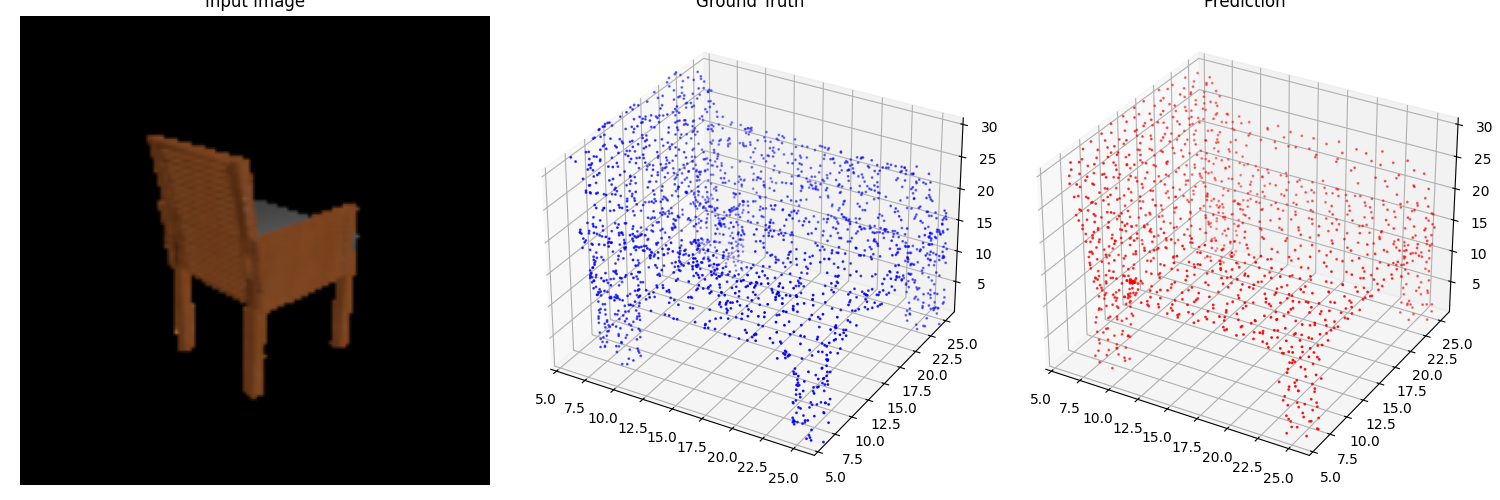
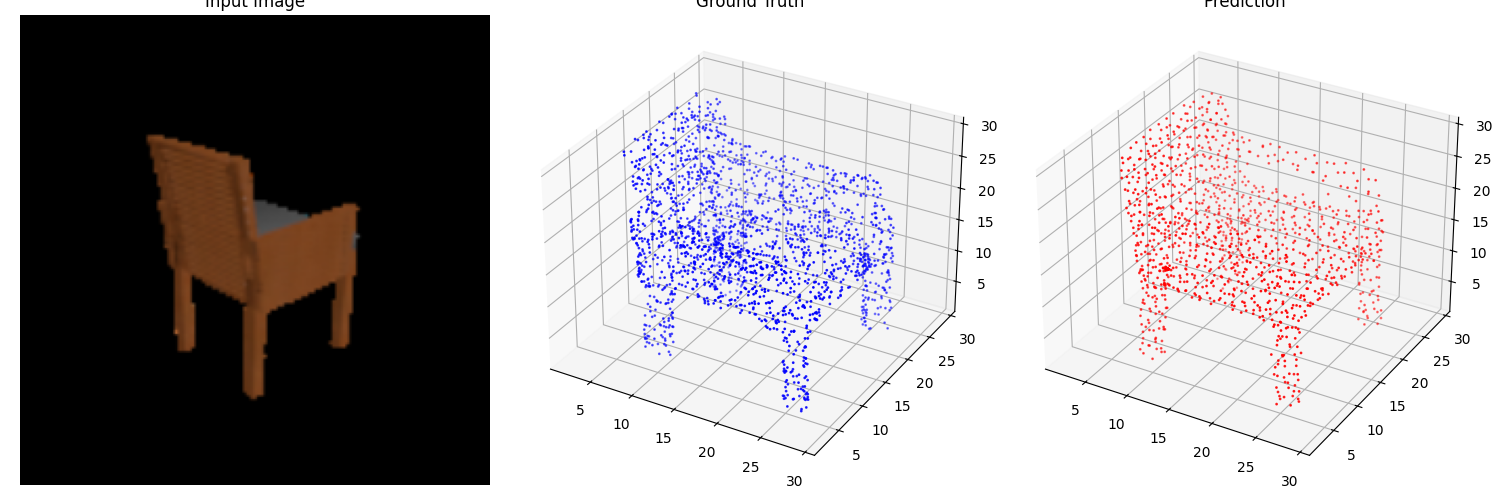
Mesh model ready for tacc

diff --git a/img2mesh/models.py b/img2mesh/models.py
@@ -148,7 +148,7 @@ def train_mesh_epoch(model, train_loader, test_loader, optimizer, device = "cpu"
         smooth_loss = laplacian_smoothness(pred_verts, model.adj_list)
 
         # Total loss
-        loss = chamfer_loss_val + 0.1 * smooth_loss
+        loss = chamfer_loss_val + 0.2 * smooth_loss
         loss.backward()
         optimizer.step()
 
@@ -178,10 +178,10 @@ def train_mesh_epoch(model, train_loader, test_loader, optimizer, device = "cpu"
             chamfer_loss = chamfer_fn(pred_points, gt_points)
 
             # ---- Smoothness Loss ----
-            smooth_loss = laplacian_smoothness(pred_verts, model.adj_list)
+            smooth_loss = laplacian_smoothness(pred_verts, model.adj_list) + edge_length_regularizer(pred_verts, faces)
 
             # Total loss
-            loss = chamfer_loss + 0.1 * smooth_loss
+            loss = chamfer_loss + 0.2 * smooth_loss
 
             val_loss += loss.item()
             break
@@ -220,30 +220,31 @@ def build_adjacency_matrix(faces, num_vertices):
 # 2. SAMPLE POINTS ON PREDICTED MESH (differentiable)
 # -----------------------------------------------------
 def sample_points_on_mesh(pred_verts, faces, num_samples):
-    B, V, _ = pred_verts.shape
-    device = pred_verts.device
-    
-    v0 = pred_verts[:, faces[:, 0], :]   # [B,F,3]
-    v1 = pred_verts[:, faces[:, 1], :]
-    v2 = pred_verts[:, faces[:, 2], :]
-    # Areas for weighted sampling
-    tri_areas = 0.5 * torch.norm(torch.cross(v1 - v0, v2 - v0, dim=2), dim=2)  # [B,F]
-    tri_probs = tri_areas / (tri_areas.sum(dim=1, keepdim=True) + 1e-9)
+        B, V, _ = pred_verts.shape
+        device = pred_verts.device
 
-    # Sample triangles (not differentiable, but vertex ops ARE)
-    idx = torch.multinomial(tri_probs, num_samples, replacement=True)  # [B,Ng]
+        v0 = pred_verts[:, faces[:, 0], :]   # [B,F,3]
+        v1 = pred_verts[:, faces[:, 1], :]
+        v2 = pred_verts[:, faces[:, 2], :]
+        # Areas for weighted sampling
+        tri_areas = 0.5 * torch.norm(torch.cross(v1 - v0, v2 - v0, dim=2), dim=2)  # [B,F]
+        tri_probs = tri_areas / (tri_areas.sum(dim=1, keepdim=True) + 1e-9)
 
-    # Gather triangle vertices
-    v0_s = v0.gather(1, idx.unsqueeze(-1).repeat(1,1,3))  # [B,Ng,3]
-    v1_s = v1.gather(1, idx.unsqueeze(-1).repeat(1,1,3))
-    v2_s = v2.gather(1, idx.unsqueeze(-1).repeat(1,1,3))
+        # Sample triangles (not differentiable, but vertex ops ARE)
+        with torch.no_grad():
+            idx = torch.multinomial(tri_probs, num_samples, replacement=True)  # [B,Ng]
 
-    # Barycentric sampling (differentiable)
-    u = torch.sqrt(torch.rand(B, num_samples, 1, device=device))
-    v = torch.rand(B, num_samples, 1, device=device)
+        # Gather triangle vertices
+        v0_s = v0.gather(1, idx.unsqueeze(-1).repeat(1,1,3))  # [B,Ng,3]
+        v1_s = v1.gather(1, idx.unsqueeze(-1).repeat(1,1,3))
+        v2_s = v2.gather(1, idx.unsqueeze(-1).repeat(1,1,3))
 
-    pts = (1 - u) * v0_s + u * (1 - v) * v1_s + u * v * v2_s
-    return pts  # [B,Ng,3]
+        # Barycentric sampling (differentiable)
+        u = torch.sqrt(torch.rand(B, num_samples, 1, device=device))
+        v = torch.rand(B, num_samples, 1, device=device)
+
+        pts = (1 - u) * v0_s + u * (1 - v) * v1_s + u * v * v2_s
+        return pts  # [B,Ng,3]
 
 
 # -----------------------------------------------------

diff --git a/img2mesh/dataset.py b/img2mesh/dataset.py
@@ -109,7 +109,7 @@ def read_binvox(path):
         return voxels.astype(np.float32)  # 0/1 float values
 
 class Image2MeshDataset(Dataset):
-    def __init__(self, root_dir, split_json, mode="train", transform=None):
+    def __init__(self, root_dir, split_json, mesh_list, mode="train", transform=None, ):
         """
         root_dir: path to the R2N2 dataset folder
         split_json: path to split.json
@@ -162,7 +162,7 @@ class Image2MeshDataset(Dataset):
                 point_cloud = sample_points_from_mesh(verts, faces, num_points=2048)
                 # ------------------------------------------------
                 # Load all views (all 10 views)
-                # ------------------------------------------------
+                # ----------------------- -------------------------
                 render_dir = os.path.join(model_img, "rendering")
                 render_imgs = sorted(glob.glob(os.path.join(render_dir, "*.png")))
 
@@ -176,10 +176,13 @@ class Image2MeshDataset(Dataset):
 
                     self.images.append(img_tensor)
                     self.points.append(point_cloud)
-                    self.faces.append(torch.from_numpy(faces.copy()))
-                    self.verts.append(torch.from_numpy(verts.copy()))
+                    mesh_list.append({
+                        "verts": torch.from_numpy(verts.copy()),
+                        "faces": torch.from_numpy(faces.copy())
+                    })
 
         print(f"[Dataset Loaded] {mode}: {len(self.images)} image-mesh pairs loaded.")
+ 
 
     # ----------------------
     # Image loader
@@ -206,9 +209,7 @@ class Image2MeshDataset(Dataset):
     def __getitem__(self, idx):
         return {
             "images": self.images[idx],
-            "points": self.points[idx],
-            "verts": self.verts[idx],
-            "faces": self.faces[idx],
+            "points": self.points[idx]
         }
     
 
@@ -221,11 +222,12 @@ def load_data(split_path = "./dataset/r2n2_shapenet_dataset/split_03001627.json"
         T.CenterCrop(224),
         T.ToTensor()
     ])
-
-    train_dataset = Image2MeshDataset(r2n2path, split_path, mode = "train", transform=transform)
-    test_dataset = Image2MeshDataset(r2n2path, split_path, mode = "test", transform=transform)
+    train_meshes = []
+    test_meshes = []
+    train_dataset = Image2MeshDataset(r2n2path, split_path, train_meshes, mode = "train", transform=transform)
+    test_dataset = Image2MeshDataset(r2n2path, split_path, test_meshes, mode = "test", transform=transform)
     print(f"Train samples: {len(train_dataset)}, Test samples: {len(test_dataset)}")
     print("Example data point keys:", train_dataset[0].keys())
-    return train_dataset, test_dataset
+    return train_dataset, test_dataset, train_meshes, test_meshes
 if __name__ == "__main__":
     load_data()

diff --git a/img2mesh/train.py b/img2mesh/train.py
@@ -21,10 +21,10 @@ def train_mesh_model(model, train_loader, val_loader, optimizer, num_epochs=20, 
             torch.save(model.state_dict(), save_path + f"epoch{epoch}.pth")
     return loss_dict
 
-def visualize_image2mesh_results(model_path, dataset, template_mesh, index=0, device="cpu", save_path=None):
+def visualize_image2mesh_results(model_path, dataset, meshes, template_mesh, index=0, device="cpu", save_path=None):
     image_tensor = dataset[index]["images"].to(device)  # [1, 3, H, W]
-    gt_verts = dataset[index]["verts"].to(device)            # [V, 3]
-    gt_faces = dataset[index]["faces"].to(device)            # [F,
+    gt_verts = meshes[index]["verts"].to(device)            # [V, 3]
+    gt_faces = meshes[index]["faces"].to(device)            # [F,
     img = image_tensor.permute(1,2,0).cpu().numpy()
     with torch.no_grad():
         model = Img2MeshModel(template_verts_numpy=template_mesh["verts"], template_faces_numpy=template_mesh["faces"], adj_list=build_adjacency_matrix(template_mesh["faces"], template_mesh["verts"].shape[0]))
@@ -97,7 +97,7 @@ def main():
     model = Img2MeshModel(template_verts_numpy=tpl["verts"], template_faces_numpy=tpl["faces"], adj_list=adj_list)
     optimizer = torch.optim.Adam(model.parameters(), lr=0.001)
     save_path = "./img2mesh/saved_models/"
-    trainset, testset = load_data()
+    trainset, testset, train_meshes, test_meshes = load_data()
     train_loader = DataLoader(trainset, batch_size=32, shuffle=True)
     test_loader = DataLoader(testset, batch_size=32, shuffle=False)
     device = torch.device("cpu") if not torch.cuda.is_available() else torch.device("cuda")
@@ -108,11 +108,11 @@ def main():
     with open("./img2mesh/losses.json", "w") as f:
         json.dump(loss_dict, f, indent=4)
     
-    # visualized_idx = [0, 52, 112, 162, 200]
-    visualized_idx = [0, 1, 2, 3, 4]
+    visualized_idx = [0, 52, 112, 162, 200]
+    # visualized_idx = [0, 1, 2, 3, 4]
 
     for idx in visualized_idx:
-        visualize_image2mesh_results(save_path + f"epoch{num_epochs -1}.pth", testset, template_mesh=tpl, index=idx, device=device, save_path = "./img2mesh/results/")
+        visualize_image2mesh_results(save_path + f"epoch{num_epochs -1}.pth", testset, test_meshes, template_mesh=tpl, index=idx, device=device, save_path = "./img2mesh/results/")
 
 if __name__ == "__main__":
     main()

diff --git a/img2pointcloud/train.py b/img2pointcloud/train.py
@@ -152,6 +152,14 @@ def visualize_image2pointcloud_results(model_path, dataset, index=0, device="cpu
     ax2.set_xlim(min_xyz[0], max_xyz[0])
     ax2.set_ylim(min_xyz[1], max_xyz[1])
     ax2.set_zlim(min_xyz[2], max_xyz[2])
+    def set_axes_equal(ax):
+        extents = np.array([ax.get_xlim3d(), ax.get_ylim3d(), ax.get_zlim3d()])
+        centers = np.mean(extents, axis=1)
+        max_range = np.max(extents[:,1] - extents[:,0])
+        for ctr, axis in zip(centers, [ax.set_xlim3d, ax.set_ylim3d, ax.set_zlim3d]):
+            axis(ctr - max_range/2, ctr + max_range/2)
+    set_axes_equal(ax1)
+    set_axes_equal(ax2)
 
     plt.tight_layout()
 
@@ -171,9 +179,9 @@ def main():
     print("Using device:", device)
 
     num_epochs = 50
-    loss_dict = train_pointcloud_model(model, train_loader=train_loader, val_loader=test_loader, optimizer=optimizer, device=device, num_epochs=num_epochs, save_path = save_path)
-    with open("./img2pointcloud/losses.json", "w") as f:
-        json.dump(loss_dict, f, indent=4)
+    # loss_dict = train_pointcloud_model(model, train_loader=train_loader, val_loader=test_loader, optimizer=optimizer, device=device, num_epochs=num_epochs, save_path = save_path)
+    # with open("./img2pointcloud/losses.json", "w") as f:
+    #     json.dump(loss_dict, f, indent=4)
     
     visualized_idx = [0, 52, 112, 162, 200]
     for idx in visualized_idx:
